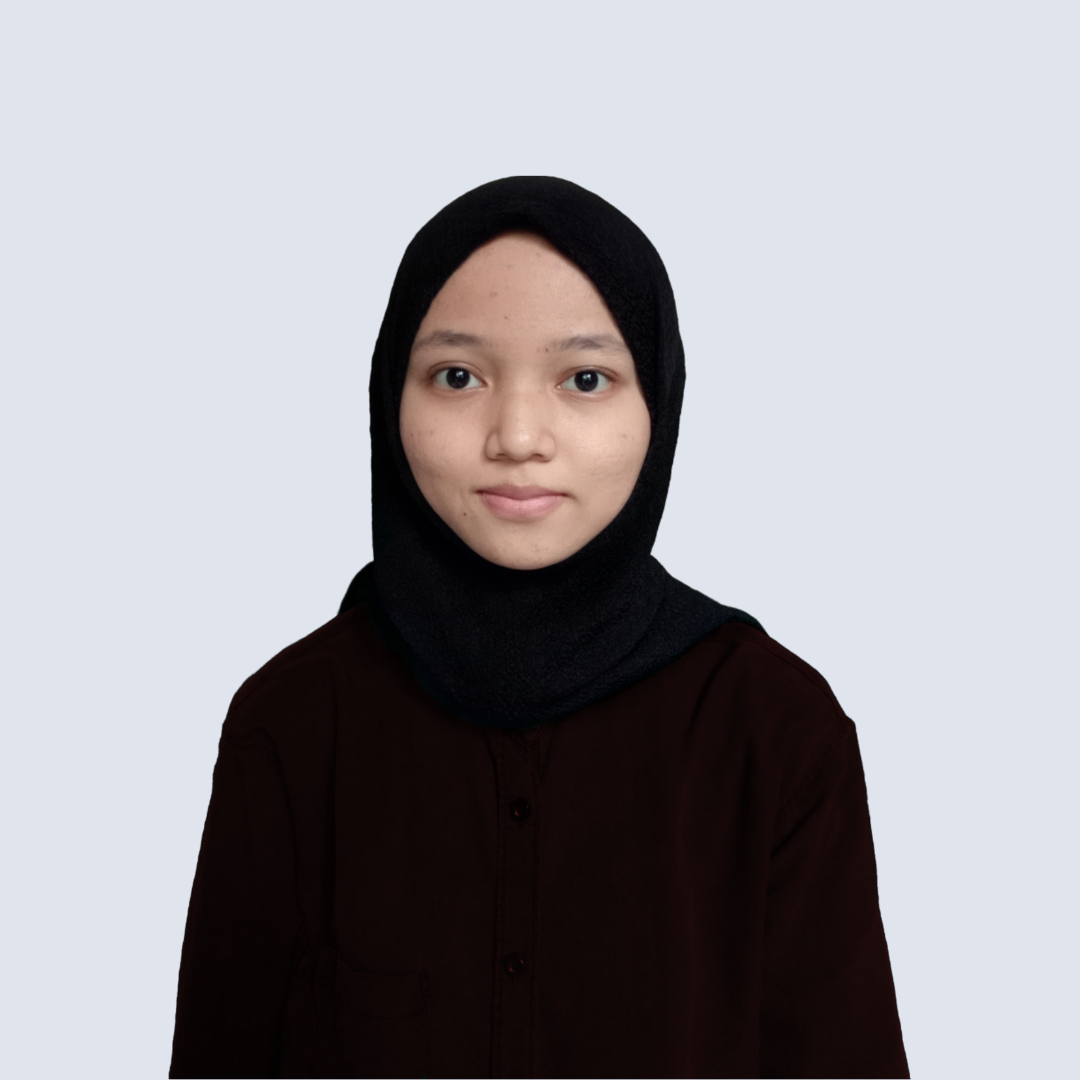
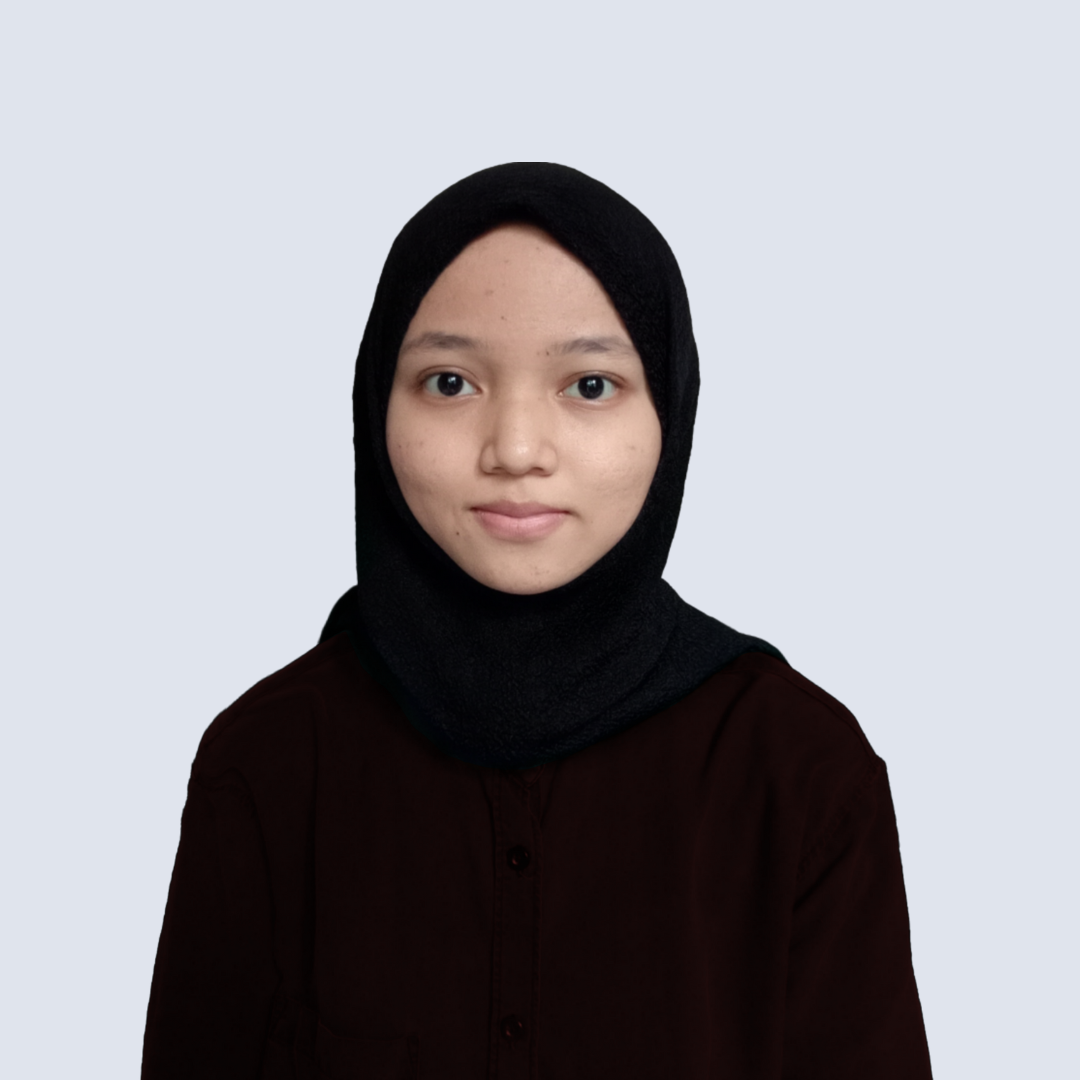
update team profile details

diff --git a/index.html b/index.html
@@ -514,15 +514,21 @@
                     target="_blank"
                   >
                     <img
-                      src="assets/img/team/team-1.jpg"
+                      src="assets/img/team/bagas.png"
                       class="img-fluid"
                       alt=""
                     />
                   </a>
                   <div class="social">
-                    <a href=""><i class="bi bi-instagram"></i></a>
-                    <a href=""><i class="bi bi-linkedin"></i></a>
-                    <a href=""><i class="bi bi-github"></i></a>
+                    <a href="https://www.instagram.com/annastyabagas/"
+                      ><i class="bi bi-instagram"></i
+                    ></a>
+                    <a href="https://www.linkedin.com/in/annastyabagasd"
+                      ><i class="bi bi-linkedin"></i
+                    ></a>
+                    <a href="https://github.com/BiggusMaximus"
+                      ><i class="bi bi-github"></i
+                    ></a>
                   </div>
                 </div>
                 <div class="member-info">
@@ -616,23 +622,32 @@
                 <div class="member-img">
                   <a
                     href="team-details/portfolio-details-4.html"
-                    title="Ibnu Haikal Elhadi - Biographical Data"
+                    title="Hfizhan Khair - Biographical Data"
                     target="_blank"
                   >
                     <img
-                      src="assets/img/team/team-1.jpg"
+                      src="assets/img/team/hafiz.png"
                       class="img-fluid"
                       alt=""
                     />
                   </a>
                   <div class="social">
-                    <a href=""><i class="bi bi-instagram"></i></a>
-                    <a href=""><i class="bi bi-linkedin"></i></a>
-                    <a href=""><i class="bi bi-github"></i></a>
+                    <a
+                      href="https://instagram.com/hvz.khair/
+                    "
+                      ><i class="bi bi-instagram"></i
+                    ></a>
+                    <a
+                      href="https://www.linkedin.com/in/hafizhan-khair-5b0137237/"
+                      ><i class="bi bi-linkedin"></i
+                    ></a>
+                    <a href="https://github.com/Hafizhan22"
+                      ><i class="bi bi-github"></i
+                    ></a>
                   </div>
                 </div>
                 <div class="member-info">
-                  <h4>Abet Ambara</h4>
+                  <h4>Hafizhan Khair</h4>
                   <span>Path Leader</span>
                 </div>
               </div>
@@ -689,19 +704,23 @@
                     target="_blank"
                   >
                     <img
-                      src="assets/img/team/team-3.jpg"
+                      src="assets/img/team/abet.png"
                       class="img-fluid"
                       alt=""
                     />
                   </a>
                   <div class="social">
                     <a href=""><i class="bi bi-instagram"></i></a>
-                    <a href=""><i class="bi bi-linkedin"></i></a>
-                    <a href=""><i class="bi bi-github"></i></a>
+                    <a href="https://www.linkedin.com/in/abet-ambara/"
+                      ><i class="bi bi-linkedin"></i
+                    ></a>
+                    <a href="https://github.com/Abetambar"
+                      ><i class="bi bi-github"></i
+                    ></a>
                   </div>
                 </div>
                 <div class="member-info">
-                  <h4>Hafizhan Khair</h4>
+                  <h4>Abet Ambara</h4>
                   <span>Member</span>
                 </div>
               </div>
@@ -848,8 +867,8 @@
             </div>
           </div>
 
-          <div class="row mt-5">
-            <div class="col-lg-4">
+          <div class="contact-section">
+            <div class="contact-info">
               <div class="info">
                 <div class="address">
                   <i class="bi bi-geo-alt"></i>
@@ -865,71 +884,10 @@
 
                 <div class="phone">
                   <i class="bi bi-phone"></i>
-                  <h4>Call:</h4>
-                  <p>+62 812-123-456-78</p>
+                  <h4>Email:</h4>
+                  <p>greenponic.hy02@gmail.com</p>
                 </div>
               </div>
-            </div>
-
-            <div class="col-lg-8 mt-5 mt-lg-0">
-              <form
-                action="forms/contact.php"
-                method="post"
-                role="form"
-                class="php-email-form"
-              >
-                <div class="row">
-                  <div class="col-md-6 form-group mt-3 mt-md-3">
-                    <input
-                      type="text"
-                      name="name"
-                      class="form-control"
-                      id="name"
-                      placeholder="Your Name"
-                      required
-                    />
-                  </div>
-                  <div class="col-md-6 form-group mt-3 mt-md-3">
-                    <input
-                      type="email"
-                      class="form-control"
-                      name="email"
-                      id="email"
-                      placeholder="Your Email"
-                      required
-                    />
-                  </div>
-                </div>
-                <div class="form-group mt-3">
-                  <input
-                    type="text"
-                    class="form-control"
-                    name="subject"
-                    id="subject"
-                    placeholder="Subject"
-                    required
-                  />
-                </div>
-                <div class="form-group mt-3">
-                  <textarea
-                    class="form-control"
-                    name="message"
-                    rows="5"
-                    placeholder="Message"
-                    required
-                  ></textarea>
-                </div>
-                <div class="my-3">
-                  <div class="loading">Loading</div>
-                  <div class="error-message"></div>
-                  <div class="sent-message">
-                    Your message has been sent. Thank you!
-                  </div>
-                </div>
-                <div class="text-center">
-                  <button type="submit">Send Message</button>
-                </div>
-              </form>
             </div>
           </div>
         </div>

diff --git a/team-details/portfolio-details-4.html b/team-details/portfolio-details-4.html
@@ -111,7 +111,7 @@
               <div class="portfolio-details-slider swiper">
                 <div class="swiper-wrapper align-items-center">
                   <div class="profile-image">
-                    <img src="../assets/img/portfolio/portfolio-1.jpg" alt="" />
+                    <img src="../assets/img/team/hafiz.png" alt="" />
                   </div>
                 </div>
               </div>
@@ -119,31 +119,29 @@
 
             <div class="col-lg-8">
               <div class="portfolio-info">
-                <h3>Abet Ambara</h3>
+                <h3>Hafizhan Khair</h3>
                 <p>
-                  Lorem ipsum dolor sit amet consectetur adipisicing elit.
-                  Placeat ea ipsam beatae ullam sequi aliquid veniam aspernatur.
-                  Laboriosam iure, corrupti vel porro maxime possimus magni
-                  itaque assumenda alias! Eius, ex. Lorem ipsum dolor sit amet
-                  consectetur adipisicing elit. Consectetur, aliquam quas.
-                  Quidem voluptates iste adipisci quisquam ab amet quos itaque
-                  placeat voluptas distinctio illum explicabo atque architecto
-                  mollitia, obcaecati at?Lorem ipsum dolor sit, amet consectetur
-                  adipisicing elit. Possimus, quidem? Suscipit, aliquid
-                  blanditiis aspernatur quod assumenda cum ea laborum amet rem
-                  possimus mollitia nulla adipisci impedit ut at consectetur
-                  aut.lorem Lorem ipsum dolor sit amet consectetur adipisicing
-                  elit. Ab, cumque, impedit at esse quis iste ipsa cupiditate
-                  minima nemo tenetur qui illo suscipit recusandae consequatur
-                  magnam doloremque distinctio id perspiciatis!
+                  Student at Bina Sarana Informatika majoring in Technology
+                  Information -- Mobile Development path at Bangkit Academy led
+                  by Google, GOTO, and Traveloka 2022. Have an interest in
+                  Telecommunication Engineering.
                 </p>
                 <div class="social-links text-md-right pt-3 pt-md-0">
-                  <a href="#" class="instagram"
+                  <a
+                    href="https://instagram.com/hvz.khair/
+                  "
+                    class="instagram"
                     ><i class="bx bxl-instagram"></i
                   ></a>
-                  
-                  <a href="#" class="linkedin"><i class="bx bxl-linkedin"></i></a>
-                  <a href="#" class="google-plus"><i class="bx bxl-github"></i></a>
+
+                  <a
+                    href="https://www.linkedin.com/in/hafizhan-khair-5b0137237/"
+                    class="linkedin"
+                    ><i class="bx bxl-linkedin"></i
+                  ></a>
+                  <a href="https://github.com/Hafizhan22" class="google-plus"
+                    ><i class="bx bxl-github"></i
+                  ></a>
                 </div>
               </div>
             </div>

diff --git a/team-details/portfolio-details-1.html b/team-details/portfolio-details-1.html
@@ -111,7 +111,7 @@
               <div class="portfolio-details-slider swiper">
                 <div class="swiper-wrapper align-items-center">
                   <div class="profile-image">
-                    <img src="../assets/img/portfolio/portfolio-1.jpg" alt="" />
+                    <img src="../assets/img/team/bagas.png" alt="" />
                   </div>
                 </div>
               </div>
@@ -121,29 +121,15 @@
               <div class="portfolio-info">
                 <h3>Annastya Bagas Dewantara</h3>
                 <p>
-                  Lorem ipsum dolor sit amet consectetur adipisicing elit.
-                  Placeat ea ipsam beatae ullam sequi aliquid veniam aspernatur.
-                  Laboriosam iure, corrupti vel porro maxime possimus magni
-                  itaque assumenda alias! Eius, ex. Lorem ipsum dolor sit amet
-                  consectetur adipisicing elit. Consectetur, aliquam quas.
-                  Quidem voluptates iste adipisci quisquam ab amet quos itaque
-                  placeat voluptas distinctio illum explicabo atque architecto
-                  mollitia, obcaecati at?Lorem ipsum dolor sit, amet consectetur
-                  adipisicing elit. Possimus, quidem? Suscipit, aliquid
-                  blanditiis aspernatur quod assumenda cum ea laborum amet rem
-                  possimus mollitia nulla adipisci impedit ut at consectetur
-                  aut.lorem Lorem ipsum dolor sit amet consectetur adipisicing
-                  elit. Ab, cumque, impedit at esse quis iste ipsa cupiditate
-                  minima nemo tenetur qui illo suscipit recusandae consequatur
-                  magnam doloremque distinctio id perspiciatis!
+                  Student at Pembangunan Nasional University majoring in Electrical Engineering -- Machine Learning path at Bangkit Academy led by Google, GOTO, and Traveloka 2022. Have interests in IoT, Robotic and Machine Learning Project.
                 </p>
                 <div class="social-links text-md-right pt-3 pt-md-0">
-                  <a href="#" class="instagram"
+                  <a href="https://www.instagram.com/annastyabagas/ " class="instagram"
                     ><i class="bx bxl-instagram"></i
                   ></a>
                   
-                  <a href="#" class="linkedin"><i class="bx bxl-linkedin"></i></a>
-                  <a href="#" class="google-plus"><i class="bx bxl-github"></i></a>
+                  <a href="https://www.linkedin.com/in/annastyabagasd " class="linkedin"><i class="bx bxl-linkedin"></i></a>
+                  <a href="https://github.com/BiggusMaximus" class="google-plus"><i class="bx bxl-github"></i></a>
                 </div>
               </div>
             </div>

diff --git a/team-details/portfolio-details-6.html b/team-details/portfolio-details-6.html
@@ -111,7 +111,7 @@
               <div class="portfolio-details-slider swiper">
                 <div class="swiper-wrapper align-items-center">
                   <div class="profile-image">
-                    <img src="../assets/img/portfolio/portfolio-1.jpg" alt="" />
+                    <img src="../assets/img/team/abet.png" alt="" />
                   </div>
                 </div>
               </div>
@@ -119,31 +119,17 @@
 
             <div class="col-lg-8">
               <div class="portfolio-info">
-                <h3>Hafizhan Khair</h3>
+                <h3>Abet Ambara</h3>
                 <p>
-                  Lorem ipsum dolor sit amet consectetur adipisicing elit.
-                  Placeat ea ipsam beatae ullam sequi aliquid veniam aspernatur.
-                  Laboriosam iure, corrupti vel porro maxime possimus magni
-                  itaque assumenda alias! Eius, ex. Lorem ipsum dolor sit amet
-                  consectetur adipisicing elit. Consectetur, aliquam quas.
-                  Quidem voluptates iste adipisci quisquam ab amet quos itaque
-                  placeat voluptas distinctio illum explicabo atque architecto
-                  mollitia, obcaecati at?Lorem ipsum dolor sit, amet consectetur
-                  adipisicing elit. Possimus, quidem? Suscipit, aliquid
-                  blanditiis aspernatur quod assumenda cum ea laborum amet rem
-                  possimus mollitia nulla adipisci impedit ut at consectetur
-                  aut.lorem Lorem ipsum dolor sit amet consectetur adipisicing
-                  elit. Ab, cumque, impedit at esse quis iste ipsa cupiditate
-                  minima nemo tenetur qui illo suscipit recusandae consequatur
-                  magnam doloremque distinctio id perspiciatis!
+                  Student at State Polytechnic Sriwijaya -- Mobile Development path at at Bangkit Academy led by Google, Tokopedia, Gojek, & Traveloka 2022. Have interest in Android Development.
                 </p>
                 <div class="social-links text-md-right pt-3 pt-md-0">
                   <a href="#" class="instagram"
                     ><i class="bx bxl-instagram"></i
                   ></a>
                   
-                  <a href="#" class="linkedin"><i class="bx bxl-linkedin"></i></a>
-                  <a href="#" class="google-plus"><i class="bx bxl-github"></i></a>
+                  <a href="https://www.linkedin.com/in/abet-ambara/" class="linkedin"><i class="bx bxl-linkedin"></i></a>
+                  <a href="https://github.com/Abetambar" class="google-plus"><i class="bx bxl-github"></i></a>
                 </div>
               </div>
             </div>

diff --git a/assets/css/style.css b/assets/css/style.css
@@ -1410,15 +1410,23 @@ section {
   margin-bottom: 5px;
   color: #2a3842;
 }
+
+.contact-section .contact-info .info{
+  display:flex;
+  align-items:center;
+  flex-direction: row;
+  justify-content: space-between;
+
+}
 .contact .info p {
   padding: 0 0 0 60px;
   margin-bottom: 0;
   font-size: 14px;
   color: #81b64b;
 }
-.contact .info .email,
+.contact .info .email, .contact .info .address,
 .contact .info .phone {
-  margin-top: 40px;
+  margin-top: 80px;
 }
 .contact .info .email:hover i,
 .contact .info .address:hover i,

diff --git a/assets/js/main.js b/assets/js/main.js
@@ -1,9 +1,3 @@
-/**
-* Template Name: OnePage - v4.7.0
-* Template URL: https://bootstrapmade.com/onepage-multipurpose-bootstrap-template/
-* Author: BootstrapMade.com
-* License: https://bootstrapmade.com/license/
-*/
 (function() {
   "use strict";
 
